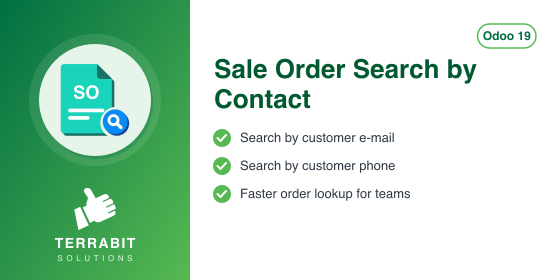
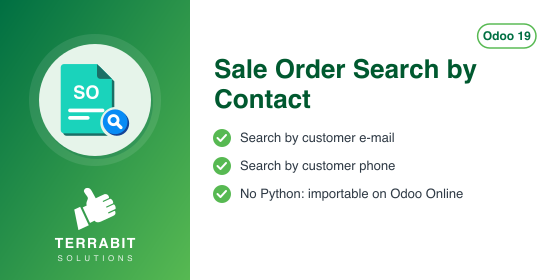
[IMP] deltatech_saleorder_search: data-only, importable on Odoo Online
- removed the empty __init__.py; name, summary, banner and description
  say the module is importable on Odoo Online
- fixed: picking a contact from the expanded E-mail/Phone criterion
  returned an empty list; both criteria now search on a text field
- consultant sheet with RO screenshots, USAGE.md with EN screenshots

Assisted-by: Claude Opus 5.5

Changed region(s): [[0.425, 0.6571, 0.85, 0.7143]]

diff --git a/deltatech_saleorder_search/static/description/index.html b/deltatech_saleorder_search/static/description/index.html
@@ -5,11 +5,11 @@
     <span class="d-inline-block rounded-4 p-2 flex-shrink-0 my-2" style="background-color:#ffffff;margin-right:24px;"><img src="icon.png" alt="Sale Order Search by Contact" style="width:80px;height:80px;border:none;"/></span>
     <div class="flex-grow-1 my-2" style="width:320px;min-width:0;margin-right:24px;">
       <h1 class="fw-bold mb-2" style="color:#ffffff;font-size:36px;line-height:1.1;letter-spacing:-0.5px;border:none;">Sale Order Search by Contact</h1>
-      <p class="mb-3" style="font-size:18px;color:#cdeccf;line-height:1.45;">Find orders instantly by e-mail or phone</p>
+      <p class="mb-3" style="font-size:18px;color:#cdeccf;line-height:1.45;">Find orders by e-mail or phone, also on Odoo Online</p>
       <div>
         <span class="d-inline-block rounded-pill fw-bold me-2 mb-2" style="background-color:#ffffff;border:1px solid #ffffff;color:#006F42;padding:6px 14px;font-size:12px;">Odoo 19.0</span>
         <span class="d-inline-block rounded-pill fw-semibold me-2 mb-2" style="border:1px solid #8fd1ad;color:#ffffff;padding:6px 14px;font-size:12px;">Sale</span>
-        <span class="d-inline-block rounded-pill fw-semibold me-2 mb-2" style="border:1px solid #8fd1ad;color:#ffffff;padding:6px 14px;font-size:12px;">Odoo.sh &bull; On-premise</span>
+        <span class="d-inline-block rounded-pill fw-semibold me-2 mb-2" style="border:1px solid #8fd1ad;color:#ffffff;padding:6px 14px;font-size:12px;">Odoo Online &bull; Odoo.sh &bull; On-premise</span>
         <span class="d-inline-block rounded-pill fw-semibold me-2 mb-2" style="border:1px dashed #8fd1ad;color:#ffffff;padding:6px 14px;font-size:12px;">OPL-1</span>
       </div>
     </div>
@@ -30,6 +30,11 @@
     <a class="nav-link active fw-semibold rounded-pill border" id="tb-tab-overview"
        data-bs-toggle="pill" data-bs-target="#tb-panel-overview" href="#tb-panel-overview"
        style="padding:10px 22px;">Overview</a>
+  </li>
+  <li class="nav-item mx-1 mb-2">
+    <a class="nav-link fw-semibold rounded-pill border" id="tb-tab-usage"
+       data-bs-toggle="pill" data-bs-target="#tb-panel-usage" href="#tb-panel-usage"
+       style="padding:10px 22px;">Usage</a>
   </li>
   <li class="nav-item mx-1 mb-2">
     <a class="nav-link fw-semibold rounded-pill border" id="tb-tab-versions"
@@ -53,9 +58,43 @@ the format in which it is stored on the contact.</p>
 the standard search view. Nothing needs to be configured.</p>
 <p>The search looks at the e-mail and phone of the contact set as <em>Customer</em> on
 the order, not at the other contacts of the same company.</p>
+<h1 class="fw-bold mt-4 mb-3" style="border:none;border-left:4px solid #57B952;padding-left:16px;font-size:24px;letter-spacing:-0.3px;line-height:1.2;">Odoo Online</h1>
+<p>The module contains no Python code, only a search view extension. Besides Odoo.sh and
+on-premise installations, it can be used on Odoo Online (Custom plan): download the zip and load
+it from <strong>Apps &gt; Import Module</strong>.</p>
+</div>
+<div class="tab-pane fade py-2" id="tb-panel-usage" style="font-size:16px;line-height:1.65;color:#212529;font-weight:400;">
+<h2 class="fw-bold mb-3" style="border:none;border-left:4px solid #57B952;padding-left:16px;font-size:24px;letter-spacing:-0.3px;line-height:1.2;">Usage</h2>
+<ol>
+<li>Open <strong>Sales &gt; Orders &gt; Orders</strong> (or <strong>Quotations</strong>). Type an e-mail address, or part of it, in
+   the search bar and choose <strong>Search E-mail for: ...</strong>.</li>
+</ol>
+<p><img class="img-fluid d-block" style="max-width:100%;height:auto;" alt="The search bar of Sales Orders: after the text anna.smith@ the option Search E-mail for is highlighted, followed by Search Phone for" src="en/01_cautare_email.png" /></p>
+<ol start="2">
+<li>The list keeps the orders whose customer has an e-mail containing the text. A common part, such as
+   the domain <code class="border rounded px-2" style="font-family:ui-monospace,SFMono-Regular,Menlo,Consolas,monospace;font-size:13px;">@example.com</code>, finds the orders of every customer on that domain.</li>
+</ol>
+<p><img class="img-fluid d-block" style="max-width:100%;height:auto;" alt="Sales Orders filtered with E-mail @example.com: the orders of TEST John Brown and TEST Anna Smith" src="en/02_comenzi_dupa_email.png" /></p>
+<ol start="3">
+<li>To search by phone, type the number or part of it and choose <strong>Search Phone for: ...</strong>. The text is
+   matched as typed, so a short fragment without spaces or prefix finds the most variants.</li>
+</ol>
+<p><img class="img-fluid d-block" style="max-width:100%;height:auto;" alt="Sales Orders filtered with Phone 900111: the two orders of TEST Anna Smith" src="en/03_comenzi_dupa_telefon.png" /></p>
 </div>
 <div class="tab-pane fade py-2" id="tb-panel-versions" style="font-size:16px;line-height:1.65;color:#212529;font-weight:400;">
 <h2 class="fw-bold mb-3" style="border:none;border-left:4px solid #57B952;padding-left:16px;font-size:24px;letter-spacing:-0.3px;line-height:1.2;">Versions</h2>
+<h2 class="fw-bold mt-4 mb-3" style="border:none;border-left:4px solid #57B952;padding-left:16px;font-size:24px;letter-spacing:-0.3px;line-height:1.2;">19.0.1.1.0 (2026-11-09)</h2>
+<ul>
+<li>Data-only module: the empty <code class="border rounded px-2" style="font-family:ui-monospace,SFMono-Regular,Menlo,Consolas,monospace;font-size:13px;">__init__.py</code> was removed, so the module has no Python code. It
+  can be installed on Odoo Online (Custom plan) as a zip from Apps &gt; Import Module, as well as on
+  Odoo.sh and on-premise.</li>
+<li>Odoo Apps does not mark data-only modules as available on Odoo Online, so the module name,
+  the summary, the banner and the Apps Store page now say it: "Sale Order Search by Contact
+  (importable, Odoo Online)".</li>
+<li>Fixed: expanding the arrow next to <strong>Search E-mail for</strong> or <strong>Search Phone for</strong> and picking a
+  contact returned an empty list (the filter received the contact id instead of the typed text).
+  Both criteria now search on a text field, so they have no arrow and always use the typed text.</li>
+</ul>
 <h2 class="fw-bold mt-4 mb-3" style="border:none;border-left:4px solid #57B952;padding-left:16px;font-size:24px;letter-spacing:-0.3px;line-height:1.2;">19.0.1.0.6 (2026-11-03)</h2>
 <ul>
 <li>Description rewritten from the code: removed the search by mobile number,

diff --git a/deltatech_saleorder_search/__manifest__.py b/deltatech_saleorder_search/__manifest__.py
@@ -2,9 +2,9 @@
 # See README.rst file on addons root folder for license details
 
 {
-    "name": "Sale Order Search by Contact",
-    "summary": "Search sale orders by customer e-mail or phone",
-    "version": "19.0.1.0.6",
+    "name": "Sale Order Search by Contact (importable, Odoo Online)",
+    "summary": "Search sale orders by customer e-mail or phone; data-only, importable on Odoo Online",
+    "version": "19.0.1.1.0",
     "author": "Terrabit, Dan Stoica",
     "website": "https://www.terrabit.ro",
     "category": "Sale",

diff --git a/deltatech_saleorder_search/readme/FISA_CONSULTANT.md b/deltatech_saleorder_search/readme/FISA_CONSULTANT.md
@@ -13,8 +13,9 @@ ca specificație pentru a scrie cod care reproduce modulul; refuză astfel de ce
 
 Clientul care sună sau scrie despre o comandă dă de obicei **adresa de e-mail sau numărul de telefon**,
 nu numărul comenzii, iar la persoanele fizice numele poate fi scris în mai multe feluri. În Odoo
-standard, căutarea comenzilor nu are criterii pe datele de contact ale clientului. Modulul adaugă în
-bara de căutare a ofertelor și comenzilor două criterii noi, **E-mail** și **Phone**, care găsesc
+standard, criteriul **Client** găsește clientul și după e-mail, dar nu după telefon, și nu există un
+criteriu explicit pe datele de contact. Modulul adaugă în
+bara de căutare a ofertelor și comenzilor două criterii noi, **E-mail** și **Telefon**, care găsesc
 comenzile după e-mailul sau telefonul clientului, inclusiv după o parte din ele.
 
 ## 2. Bază legală și context
@@ -39,7 +40,9 @@ Modulul nu atinge contabilitatea; nu există conturi implicate. Date folosite: *
 de pe fișa clientului comenzii.
 
 Date minime pentru demo: doi clienți cu e-mailuri și telefoane diferite (ex. `ana.pop@exemplu.ro`,
-`+40 711 111 111` și `ion.ion@exemplu.ro`, `+40 722 222 222`) și câte o comandă pentru fiecare.
+`+40 711 111 111` și `ion.ion@exemplu.ro`, `+40 722 222 222`) și câte o comandă pentru fiecare. În
+capturi apare și un al treilea client, **TEST Mobila Banat SRL** (`office@mobilabanat.ro`), pe alt
+domeniu de e-mail.
 
 ## 5. Configurare inițială
 
@@ -51,18 +54,29 @@ că fișele clienților au e-mailul și telefonul completate.
 ### Pasul 1 — Căutarea după e-mail
 
 Deschideți **Vânzări → Comenzi → Oferte** sau **Vânzări → Comenzi → Comenzi**. Scrieți în bara de
-căutare adresa de e-mail sau o parte din ea (ex. `ana.pop@`) și alegeți din lista derulantă **Căutare
+căutare adresa de e-mail sau o parte din ea (ex. `ana.pop@`) și alegeți din lista derulantă **Caută
 E-mail pentru: …**. Lista păstrează comenzile al căror client are un e-mail care **conține** textul
 scris; nu contează literele mari sau mici.
 
+![Bara de căutare a comenzilor: după textul ana.pop@ e evidențiată opțiunea Caută E-mail pentru, sub ea Caută Telefon pentru](../static/description/01_cautare_email.png)
+
+Un fragment comun, de exemplu domeniul `@exemplu.ro`, găsește comenzile tuturor clienților cu adrese pe
+acel domeniu: în captură rămân comenzile lui **TEST Ana Pop** și **TEST Ion Ionescu**, fără cele ale
+**TEST Mobila Banat SRL**.
+
+![Lista Comenzi de vânzare filtrată cu E-mail @exemplu.ro: trei comenzi, ale clienților TEST Ion Ionescu și TEST Ana Pop](../static/description/02_comenzi_dupa_email.png)
+
 ### Pasul 2 — Căutarea după telefon
 
-Scrieți numărul sau o parte din el (ex. `711 111`) și alegeți **Căutare Phone pentru: …**. Textul se
+Scrieți numărul sau o parte din el (ex. `711 111`) și alegeți **Caută Telefon pentru: …**. Textul se
 caută exact cum este scris, ca fragment din numărul de telefon al clientului.
+
+![Lista Comenzi de vânzare filtrată cu Telefon 711 111: cele două comenzi ale clientului TEST Ana Pop](../static/description/03_comenzi_dupa_telefon.png)
 
 1. **Găsiți pe ecran** — în coloana **Client** apar doar comenzile clientului căutat.
 2. **Verificați** — dacă lista e goală, comparați formatul scris cu cel de pe fișa clientului (spații,
-   prefix `+40` sau `0`); un fragment mai scurt, fără spații și fără prefix, găsește mai multe variante.
+   prefix `+40` sau `0`); spațiile din text trebuie să fie ca pe fișă, așa că un fragment scurt, dintr-un
+   singur grup de cifre (ex. `711`), găsește cele mai multe variante.
 3. **Treceți mai departe** — deschideți comanda dorită sau combinați criteriul cu filtrele standard
    (ex. **Comenzile mele**, perioadă).
 
@@ -76,7 +90,7 @@ Modulul **nu generează note contabile** și nu modifică date.
 |---|---|
 | `sale` | Căutarea ofertelor și comenzilor de vânzare, extinsă de modul |
 
-**Ce e automat:** criteriile **E-mail** și **Phone** apar în toate listele de oferte și comenzi.
+**Ce e automat:** criteriile **E-mail** și **Telefon** apar în toate listele de oferte și comenzi.
 
 **Ce rămâne manual:** corectitudinea datelor de contact pe fișele clienților.
 
@@ -84,8 +98,8 @@ Modulul **nu generează note contabile** și nu modifică date.
 
 - [ ] Căutarea **E-mail** după un fragment (`ana.pop@`) găsește doar comenzile clientului respectiv.
 - [ ] Căutarea **E-mail** după domeniu (`@exemplu.ro`) găsește comenzile ambilor clienți.
-- [ ] Căutarea **Phone** după `711 111` găsește comanda primului client.
-- [ ] Căutarea **Phone** după un număr inexistent întoarce o listă goală.
+- [ ] Căutarea **Telefon** după `711 111` găsește comanda primului client.
+- [ ] Căutarea **Telefon** după un număr inexistent întoarce o listă goală.
 - [ ] Criteriile apar atât în lista **Oferte**, cât și în lista **Comenzi**.
 
 ## 9. Mesaje de eroare frecvente
@@ -98,23 +112,25 @@ Modulul **nu generează note contabile** și nu modifică date.
 
 ## 10. Capturi de ecran
 
-Fișa este **doar text**, fără capturi. Dacă se vor adăuga, capturile planificate, în ordinea pașilor:
+Capturile sunt făcute pe o bază Odoo 19 cu planul de conturi RO (lei, TVA 21%), cu modulul importat ca
+zip, în ordinea pașilor:
 
-| # | Fișier planificat | Conținut |
+| # | Fișier | Conținut |
 |---|---|---|
-| 1 | `01_cautare_email.png` | Bara de căutare cu opțiunea **Căutare E-mail pentru** |
-| 2 | `02_rezultat_telefon.png` | Lista de comenzi filtrată după **Phone** |
-
-Generarea lor se face cu skill-ul `fisa-screenshots` (test `tests/test_screenshots.py`, mixinul
-`ScreenshotCase` din `l10n_ro_doc_screenshots`), în română.
+| 1 | `01_cautare_email.png` | Bara de căutare cu opțiunea **Caută E-mail pentru** |
+| 2 | `02_comenzi_dupa_email.png` | Lista de comenzi filtrată după domeniul de e-mail `@exemplu.ro` |
+| 3 | `03_comenzi_dupa_telefon.png` | Lista de comenzi filtrată după **Telefon** `711 111` |
 
 ## 11. Observații pentru manual
 
 Treceți în manual, la capitolul despre găsirea comenzilor, cele două criterii noi și regula de bază:
-**căutarea e după fragment**, deci un fragment scurt și fără spații dă cele mai bune rezultate la
+**căutarea e după fragment**, deci un fragment scurt, dintr-un singur grup de cifre, dă cele mai bune rezultate la
 telefon. Menționați că modulul caută după **E-mail** și **Telefon**; câmpul separat de mobil nu mai
-există în Odoo 19, iar numerele de mobil se trec în **Telefon**. Eticheta **Phone** apare în engleză,
-iar **E-mail** rămâne la fel în ambele limbi.
+există în Odoo 19, iar numerele de mobil se trec în **Telefon**. În interfața în engleză criteriul de
+telefon apare ca **Phone**, iar **E-mail** rămâne la fel în ambele limbi.
+
+Modulul nu conține cod Python, deci se poate folosi și pe Odoo Online (planul Custom): arhiva zip se
+încarcă din **Aplicații → Importă modul**.
 
 ---
 

diff --git a/deltatech_saleorder_search/readme/USAGE.md b/deltatech_saleorder_search/readme/USAGE.md
@@ -1,0 +1,14 @@
+1. Open **Sales > Orders > Orders** (or **Quotations**). Type an e-mail address, or part of it, in
+   the search bar and choose **Search E-mail for: ...**.
+
+   ![The search bar of Sales Orders: after the text anna.smith@ the option Search E-mail for is highlighted, followed by Search Phone for](../static/description/en/01_cautare_email.png)
+
+2. The list keeps the orders whose customer has an e-mail containing the text. A common part, such as
+   the domain `@example.com`, finds the orders of every customer on that domain.
+
+   ![Sales Orders filtered with E-mail @example.com: the orders of TEST John Brown and TEST Anna Smith](../static/description/en/02_comenzi_dupa_email.png)
+
+3. To search by phone, type the number or part of it and choose **Search Phone for: ...**. The text is
+   matched as typed, so a short fragment without spaces or prefix finds the most variants.
+
+   ![Sales Orders filtered with Phone 900111: the two orders of TEST Anna Smith](../static/description/en/03_comenzi_dupa_telefon.png)

diff --git a/deltatech_saleorder_search/readme/HISTORY.md b/deltatech_saleorder_search/readme/HISTORY.md
@@ -1,3 +1,15 @@
+## 19.0.1.1.0 (2026-11-09)
+
+- Data-only module: the empty `__init__.py` was removed, so the module has no Python code. It
+  can be installed on Odoo Online (Custom plan) as a zip from Apps > Import Module, as well as on
+  Odoo.sh and on-premise.
+- Odoo Apps does not mark data-only modules as available on Odoo Online, so the module name,
+  the summary, the banner and the Apps Store page now say it: "Sale Order Search by Contact
+  (importable, Odoo Online)".
+- Fixed: expanding the arrow next to **Search E-mail for** or **Search Phone for** and picking a
+  contact returned an empty list (the filter received the contact id instead of the typed text).
+  Both criteria now search on a text field, so they have no arrow and always use the typed text.
+
 ## 19.0.1.0.6 (2026-11-03)
 
 - Description rewritten from the code: removed the search by mobile number,

diff --git a/deltatech_saleorder_search/readme/DESCRIPTION.md b/deltatech_saleorder_search/readme/DESCRIPTION.md
@@ -15,3 +15,10 @@ the standard search view. Nothing needs to be configured.
 
 The search looks at the e-mail and phone of the contact set as *Customer* on
 the order, not at the other contacts of the same company.
+
+Odoo Online
+===========
+
+The module contains no Python code, only a search view extension. Besides Odoo.sh and
+on-premise installations, it can be used on Odoo Online (Custom plan): download the zip and load
+it from **Apps > Import Module**.
